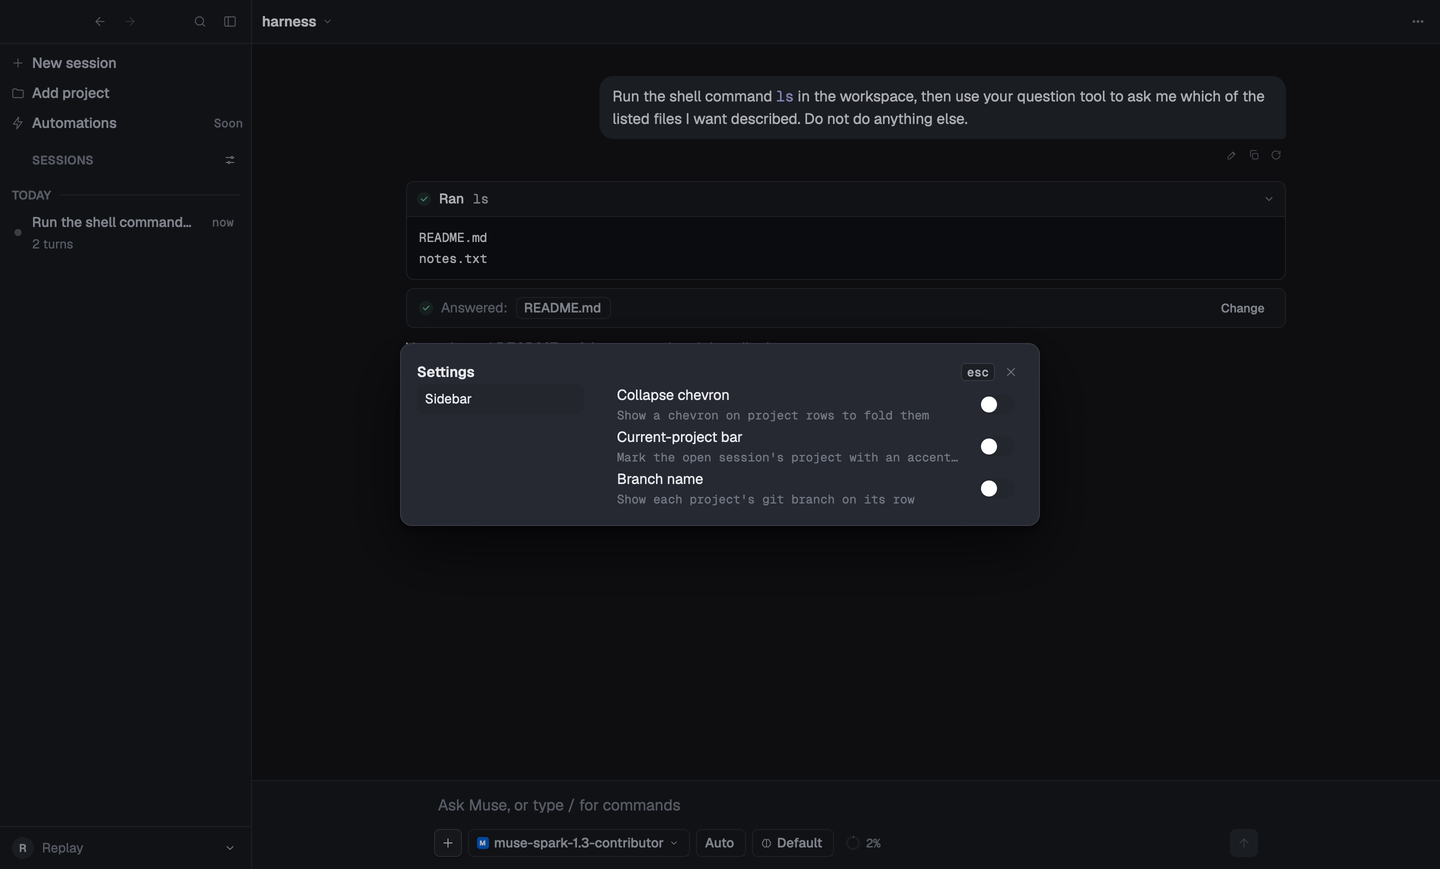
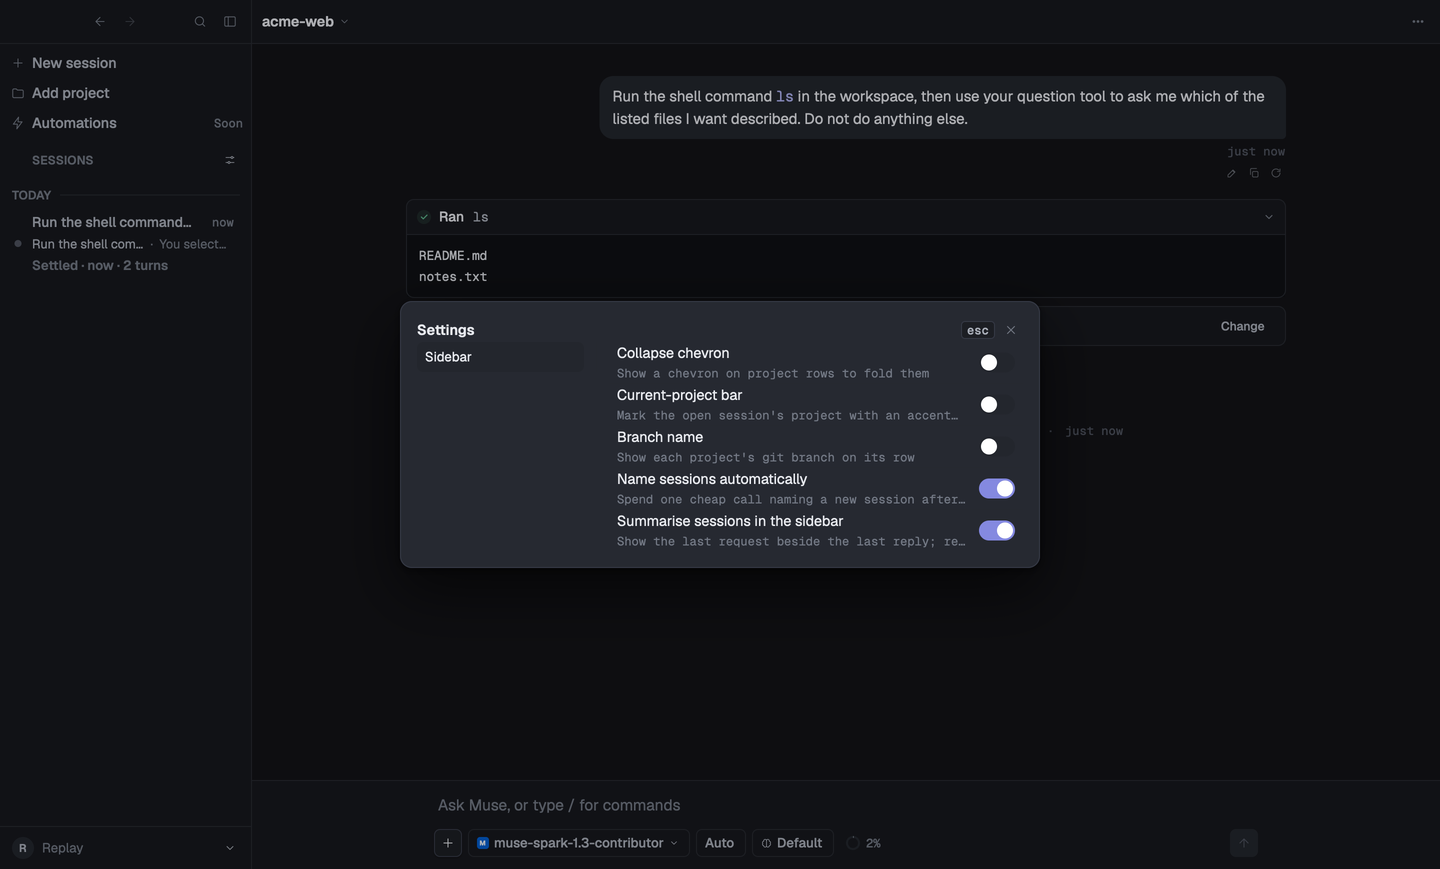
v0.1 cleanup: grouped changelog, accurate README, fresh screenshots
CHANGELOG is one 0.1.0-unreleased section grouped for users (sessions,
transcript, composer, projects, settings, billing, performance,
scripting), with the stale hover-poll line and diary wordings fixed.
README loses a wrong Muse Code link and gains the shipped rows and
transcript bullets; the projects and settings screenshots are fresh
--replay captures showing the status rows and the five-switch dialog.
CONTRIBUTING documents the resize verbs; the spec and app doc drop
owner narration.

diff --git a/CHANGELOG.md b/CHANGELOG.md
@@ -4,85 +4,72 @@ All notable user-visible changes to this project are documented here.
 
 ## 0.1.0 — unreleased
 
-First public release. A native macOS chat client for
-[Muse Code](https://github.com/facebookresearch/muse) (`muse serve`, MSP over
-stdio), built with [gpui](https://www.gpui.rs) and the `aui` component
-library.
+First public release. A native macOS chat client for Muse Code
+(`muse serve`, MSP over stdio), built with [gpui](https://www.gpui.rs) and
+the `aui` component library.
 
 - **Chat over Muse Code.** Drives `muse serve` as a child process and speaks
   MSP (JSON-RPC 2.0 as NDJSON over stdio); signs in the way the CLI does
   (device code or an API key).
+
+### Sessions & sidebar
+
+- **Sessions.** Resume, rename, fork, archive; an unsent draft (text,
+  images, files) is kept per project; a full-text search palette over
+  transcripts and the files a turn created.
+- **Titles follow the conversation.** A session with no index title is named
+  after its own earliest user prompt (earliest submission, then earliest
+  folded user turn), with the first shell command only as the fallback for
+  sessions with no user text at all. Replays title their row the same way
+  instead of keeping the file's name.
+- **Generated session titles.** On the first send, one cheap model call in a
+  throwaway side session writes a 3–6 word title into `sessions.json`
+  (`generated_title`, ranked under a `/name` name); the side session is
+  hidden at once and the server record untouched. A `Naming this session…`
+  placeholder holds the row meanwhile; a 90 s watchdog, wire errors and
+  empty replies fall back silently to the first-prompt label, at most one
+  retry, exactly one generation per session ever. A reply that arrives after
+  the timeout still lands on the row — the turn was already paid for —
+  unless the session was named or closed meanwhile.
+- **Three-line status rows, hover detail.** Every session row is title,
+  status verb, context: the status reads `Working · 14m`, `Needs approval`,
+  `Asked: "…"`, `Settled · 12m · 5 turns`, `Failed · 1h` or `No reply yet`,
+  coloured by state; the context reads the pending approval command or
+  question, else the ask/result byline (the user's last request beside the
+  last reply, excerpted free and refreshed every completed turn), else a
+  preview, else `project · branch`, else blank space at full height. Rows
+  keep a uniform height and the byline halves hug their content around a
+  single `·` separator. Hovering a row opens the full picture (title, ask,
+  reply, status with detail, project, branch, turns, last change) in a card
+  that takes no focus and never covers the row. `Needs approval` / `Asked`
+  ride the wire's `Session.attention` plus the `session/statusChanged`
+  broadcast (the open session's pending words come live from its fold);
+  `Failed` rides the last turn's terminal error from `turn/completed`,
+  persisted in `sessions.json`. Rows report hover enter/leave themselves
+  (the library's `on_hover` / `on_hover_bounds`), so the card's delay arms
+  even on a settled sidebar that re-renders nothing. New `--steps
+  row-detail:<session_id>` verb pins the card for captures.
+- **Title/summary side sessions stay invisible.** They start with a
+  bare-UUIDv7 client id (muse 1.3.0 rejects any `session/start` id that is
+  not its own shape) and are recognised by an explicit record, so they stay
+  hidden, uncounted, unindexed and untitled, including across a restart
+  mid-flight. Cost guards unchanged: one generation per session ever, at
+  most one retry, the 90 s watchdog, silent first-prompt fallback — with a
+  late answer still landing on the row instead of being billed for nothing.
+- **A click never starts work.** Clicking a session only re-attaches
+  (`session/resume` + `view/page`); a `turn/started` the re-attach
+  re-delivers for an already-completed turn no longer marks the view or its
+  row running, so an interrupted session keeps its terminal state instead
+  of showing a fresh `Working`.
+
+### Transcript
+
 - **Streaming transcript.** Markdown, reasoning, tool calls grouped and
   folded into readable cards, per-turn token counts, a context meter with
   compaction, and a queue strip for steering a running turn.
 - **Approvals, questions and errors.** Multi-stage approval cards with the
   server's own choices and policy/judge resolutions, question cards with
   previews and a timeout, error banners with retry, plans and todos.
-- **Projects.** A sidebar over several workspaces at once — add a folder,
-  group sessions by project or by date, per-project pinning and colour,
-  per-project model/effort/approval defaults.
-- **Sessions.** Resume, rename, fork, archive; an unsent draft (text, images,
-  files) is kept per project; a full-text search palette over transcripts
-  and the files a turn created.
-- **Composer controls.** Model, effort and mode menus; `@`-mentions and a
-  `/`-command menu (including skills from `muse skills list`); prompt
-  history; image attachments.
-- **Settings and account awareness.** A settings dialog for defaults and
-  behaviour flags; the harness probes which billing tier a login is on and
-  warns before a turn would bill pay-as-you-go (`docs/06-billing.md`).
-- **Both themes**, a command palette, and a keyboard-first keymap
-  (`docs/08-keymap.md`).
-- **A scripting surface for captures and testing**: `--replay`, `--no-connect`,
-  `--steps`, `--screenshot` — see `CONTRIBUTING.md`.
-- **Titles say what the person said.** A session with no index title used to
-  be named after the first shell command its agent ran; the derived title is
-  now the transcript's earliest user prompt (earliest submission, then
-  earliest folded user turn), with the shell command only as the fallback
-  for sessions with no user text at all, and both cut the row's own way.
-  Replays title their row the same way instead of keeping the file's name.
-- **Deleted folders leave the sidebar.** A project whose root is gone is
-  shown nowhere — sidebar, Projects palette, project menu, rail, current —
-  while its sessions fall back to "Other workspaces" and the adoption stays
-  in `projects.json`, so an unmounted volume or a re-attached worktree comes
-  back by itself.
-- **Generated session titles.** On the first send, one cheap model call
-  (`muse-spark-1.3` when listed) in a throwaway side session writes a 3–6
-  word title into `sessions.json` (`generated_title`, ranked under a
-  `/name` name); the side session is hidden at once and the server record
-  untouched. A `Naming this session…` placeholder holds the row meanwhile;
-  a 90 s timeout (set from measured turn times: the title call itself took
-  ~21 s against the old 20 s ceiling), wire errors and empty replies fall
-  back silently to the first-prompt label, at most one retry, exactly one
-  generation per session ever. A reply that arrives after the timeout still
-  lands on the row — the turn was already paid for — unless the session was
-  named or closed meanwhile.
-- **Two-line bylines, uniform rows.** Every session row always shows two
-  lines: `Working…` while a turn runs, the pending placeholder while a
-  title is in flight, the owner's last request beside the last reply once
-  known (free excerpt, refreshed every completed turn; one debounced model
-  rewrite only when it is poor), else the preview/`N turns` meta, else `No
-  reply yet` — never blank. (Superseded below by the three-line status
-  rows.)
-- **Three-line status rows, hover detail.** Every session row is title,
-  context, status verb: the context reads the pending approval command or
-  question, else the ask/result byline, else a preview, else
-  `project · branch`, else blank space at full height; the status reads
-  `Working · 14m`, `Needs approval`, `Asked: "…"`, `Settled · 12m · 5
-  turns`, `Failed · 1h` or `No reply yet`, coloured by state. Hovering a
-  row opens the full picture (title, ask, reply, status with detail,
-  project, branch, turns, last change) in a card that takes no focus and
-  never covers the row. `Needs approval` / `Asked` ride the wire's
-  `Session.attention` plus the `session/statusChanged` broadcast (the open
-  session's pending words come live from its fold); `Failed` rides the last
-  turn's terminal error from `turn/completed`, persisted in
-  `sessions.json`. New `--steps row-detail:<session_id>` verb pins the card
-  for captures.
-- **Sidebar switches for both.** "Name sessions automatically" and
-  "Summarise sessions in the sidebar" in the Settings dialog (`layout.json`,
-  both default ON), with `--steps auto-title` / `auto-summary` verbs; off
-  means no model call ever for that feature.
-- **Status card wording.** An unavailable usage reading renders as
-  `Current usage: unavailable`, not `unavailable used`.
 - **Cross-block text selection.** Dragging from one paragraph into another —
   or into a code block — highlights everything between: one span per
   transcript, held keyed (not positional) so it survives scrolling mid-drag,
@@ -98,40 +85,63 @@ library.
   the `esc` hint.
 - **Turns show their age.** The fold keeps the wire's `recorded_at` on each
   turn (live and backfilled transcripts agree), and the transcript renders
-  it beside the action row — under the person's bubble, in the reply's
-  footer (`just now`, minutes, hours, `yesterday`, else the date). Turns the
-  wire never timed look exactly as before.
+  it beside the action row — under your message, in the reply's footer
+  (`just now`, minutes, hours, `yesterday`, else the date). Turns the wire
+  never timed look exactly as before.
 - **Copy confirms, then clears.** Either role's Copy button holds the
   success check for 1.2 s and then returns to the copy glyph; a free
   `--steps copy:<turn>` verb presses it for captures.
-- **Side sessions by record, not by id.** Title/summary side sessions start
-  with a bare-UUIDv7 client id — muse 1.3.0 rejects any `session/start` id
-  that is not its own shape (`invalid length: found 50` for the old
-  namespaced id) — and are recognised by an explicit record (remembered in
-  memory and as `side_session` in `sessions.json` before the start runs), so
-  they stay hidden, uncounted, unindexed and untitled, including across a
-  restart mid-flight. Cost guards unchanged: one generation per session
-  ever, at most one retry, the 90 s watchdog, silent first-prompt fallback —
-  with the watchdog standing the row down rather than giving up, so a late
-  answer still lands instead of being billed for nothing.
-- **Hover detail arms on hover.** Rows report hover enter/leave themselves
-  (new `on_row_hover` in the library), so the detail card's delay arms even
-  on a settled sidebar that re-renders nothing; the render-time hover poll
-  stays as the trigger tracker and fallback.
-- **Byline reads as one line.** The ask/result halves no longer split the
-  row 50/50: each hugs its content around a single `·` separator and both
-  truncate with an ellipsis when squeezed.
-- **A click never starts work.** Clicking a session only re-attaches
-  (`session/resume` + `view/page`); a `turn/started` the re-attach
-  re-delivers for an already-completed turn no longer marks the view or its
-  row running, so an interrupted session keeps its terminal state instead
-  of showing a fresh `Working`.
 - **Every existing file path opens.** Transcript paths open in their
   default app (folders in Finder) wherever they live — absolute paths as
   is, relative ones against the workspace — gated on existence: only an
   existing path opens (never executed, never created), anything else toasts
   `No such file` quietly. http(s) links behave as before.
+
+### Composer
+
+- **Composer controls.** Model, effort and mode menus; `@`-mentions and a
+  `/`-command menu (including skills from `muse skills list`); prompt
+  history; image attachments.
+
+### Projects
+
+- **Projects.** A sidebar over several workspaces at once — add a folder,
+  group sessions by project or by date, per-project pinning and colour,
+  per-project model/effort/approval defaults.
+- **Deleted folders leave the sidebar.** A project whose root is gone is
+  shown nowhere — sidebar, Projects palette, project menu, rail, current —
+  while its sessions fall back to "Other workspaces" and the adoption stays
+  in `projects.json`, so an unmounted volume or a re-attached worktree comes
+  back by itself.
 - **Project running state is a left-edge bar.** A group with a running
   session draws a small accent bar at the row's left edge in the state
   colour (breathing with the shared pulse while running) instead of a
   pulsing dot beside the name; the current-project bar shares the slot.
+
+### Settings
+
+- **Settings dialog.** Defaults and behaviour flags, including "Name
+  sessions automatically" and "Summarise sessions in the sidebar"
+  (`layout.json`, both default ON), with `--steps auto-title` /
+  `auto-summary` verbs; off means no model call ever for that feature.
+- **Both themes**, a command palette, and a keyboard-first keymap
+  (`docs/08-keymap.md`).
+
+### Accounts & billing
+
+- **Account awareness.** The harness probes which billing tier a login is
+  on and warns before a turn would bill pay-as-you-go (`docs/06-billing.md`).
+- **Status card wording.** An unavailable usage reading renders as
+  `Current usage: unavailable`, not `unavailable used`.
+
+### Performance
+
+- **Calm rendering.** The sidebar and transcript paint through cached panes
+  that rebuild only when their inputs change; an idle window schedules no
+  frames. Scrolling, resize drags and the one-shot reveal steer the lists
+  without rebuilding the panes around them.
+
+### Scripting & debugging
+
+- **A scripting surface for captures and testing**: `--replay`,
+  `--no-connect`, `--steps`, `--screenshot` — see `CONTRIBUTING.md`.

diff --git a/docs/02-app.md b/docs/02-app.md
@@ -337,11 +337,11 @@ words, `Settled · 12m · 5 turns`, `Failed · 1h`, or `No reply yet` —
 waiting on a person outranks running, so an approval mid-turn never reads
 `Working`. Hovering a row past a short beat opens the hover detail beside
 it, the dense 320 px card: the full title wrapping with the relative time
-right-aligned, the owner's last message quoted and muted, the latest reply's
+right-aligned, the user's last message quoted and muted, the latest reply's
 first line in the state colour (which carries the status — green settled,
 accent working, danger failed — so there is no separate status row), one
 inline meta row (branch, bare turn count, updated), and a mono muted footer
-merging project and workspace path. A session waiting on the owner replaces
+merging project and workspace path. A session waiting on the user replaces
 the reply line with the highlighted attention box: warning-tinted border and
 fill, `Asked:` or `Needs approval:` in semibold, then the pending
 question's words or the approval's exact command, read live from the open
@@ -380,7 +380,7 @@ through the row's own one-line cap. `last_summary` is written on
 block (fenced code skipped, markdown markers stripped): the fold is already
 in memory, so it costs no model call, and it persists through
 `sessions.json` beside the name, the hidden and archived flags, the pin,
-the derived title — and `last_ask`, the owner's last request in the same
+the derived title — and `last_ask`, the user's last request in the same
 free excerpt, which together with the summary is the row's two-line
 byline. Only when the "Summarise sessions in the sidebar" switch is on AND
 the free excerpt is poor (either half empty, fence-leading or code-only, or

diff --git a/README.md b/README.md
@@ -1,6 +1,6 @@
 # Harness
 
-A native macOS chat client for [Muse Code](https://github.com/facebookresearch/muse) —
+A native macOS chat client for Muse Code —
 built with [gpui](https://www.gpui.rs) (the UI framework behind
 [Zed](https://zed.dev)) and the `aui` component library.
 
@@ -46,6 +46,14 @@ printed.
 - **Billing-tier awareness.** The harness probes which plan a login is on and
   warns before a turn would bill pay-as-you-go, rather than finding out
   after the fact (see **Cost**, below).
+- **Session rows that explain themselves.** Every row is title, status verb,
+  context: `Working · 14m`, `Needs approval`, `Asked: "…"`, `Settled · 12m`,
+  `Failed · 1h`. Titles are generated on the first send; hovering a row
+  opens the full picture in a detail card that never steals focus.
+- **A transcript you can read and reuse.** Cross-block text selection with
+  copy, per-turn timestamps (`just now` … `yesterday`), copy buttons that
+  confirm, file paths and links that open, and a status line that names the
+  turn's current phase instead of just spinning.
 - Both light and dark themes, a command palette, and a keyboard-first keymap.
 
 ## Requirements

diff --git a/CONTRIBUTING.md b/CONTRIBUTING.md
@@ -124,4 +124,8 @@ card: `row-detail:<session_id>` pins it open (pair with `click:` on the
 same id), and `hover:<session_id>` delivers the row's own hover report —
 what its hover event sends — so the card opens past the delay exactly as
 for a real pointer (pair with `click:` on the same id and a `wait:` past
-the delay; empty means the selected row).
+the delay; empty means the selected row). A scripted resize drag runs
+through the real divider handler as `resize-begin:<x>` / `resize-move:<x>` /
+`resize-end`, or frame-paced as `resize-sweep:<to_w,step_px>`; the full verb
+tables live in `crates/harness/src/steps.rs` with the composer verbs in
+`docs/03-composer.md` and the approval verbs in `docs/04-approvals.md`.

diff --git a/docs/00-spec.md b/docs/00-spec.md
@@ -1,6 +1,6 @@
 # Harness — Muse Code chat slice: specification
 
-Status: frozen 2026-09-08. Change only with the owner's agreement; record changes in
+Status: frozen 2026-09-08. Change only by agreement; record changes in
 `docs/CHANGELOG.md`.
 
 This repository is the agentic coding **harness**. Its first slice is a feature-complete
